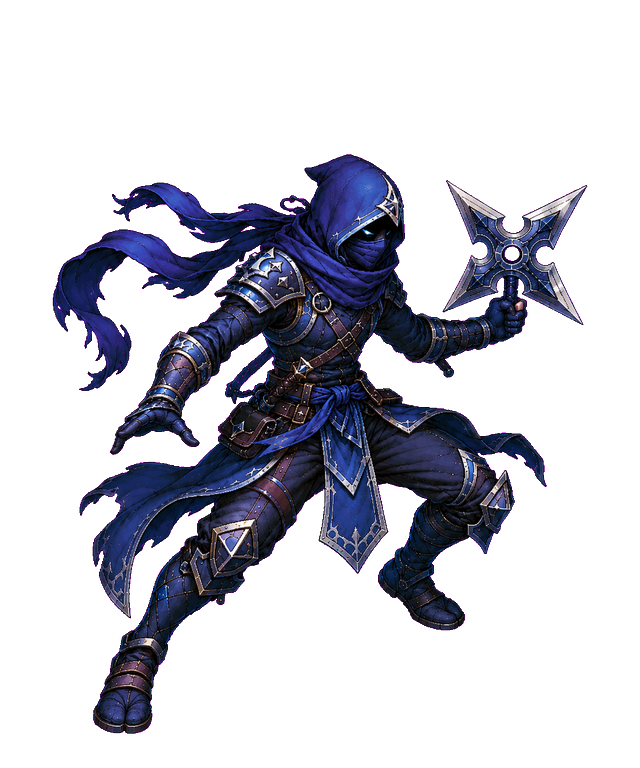
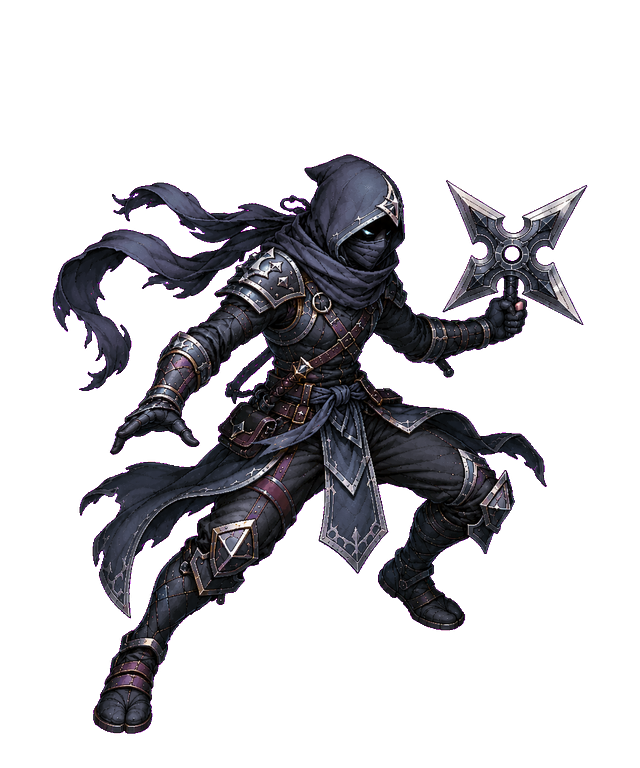
Turn Talon's blue into dark slate on his portrait and combat sheet by an exact palette pass that keeps his drawing, silver and leather, so he no longer reads like Kestrel's night blue, and record the new image hashes and palette (OD-2026-11-13-F, T1)
Agent: claude; Run: claude-bilan-presentation-20261113T1644Z

diff --git a/src/render/assetManifest.ts b/src/render/assetManifest.ts
@@ -209,7 +209,8 @@ export const assets = {
     morvan: { category: 'playable_hero', factionId: 'lion', rarity: 'unique', recruitTier: 'late', artStatus: 'approved', colorPalette: ['dark gold', 'black', 'wine'], silhouetteNotes: 'Dark knight wielding cursed blade.' },
     lyra: { category: 'playable_hero', factionId: 'lion', rarity: 'unique', recruitTier: 'late', artStatus: 'approved', colorPalette: ['crimson', 'silver', 'gold'], silhouetteNotes: 'Red mage hybrid casting both steel and spells.' },
     eldwin: { category: 'playable_hero', factionId: 'neutral', rarity: 'unique', recruitTier: 'late', artStatus: 'approved', colorPalette: ['teal', 'parchment', 'silver'], silhouetteNotes: 'Enchanter scholar with runes and seals.' },
-    talon: { category: 'playable_hero', factionId: 'neutral', rarity: 'unique', recruitTier: 'late', artStatus: 'approved', colorPalette: ['midnight', 'silver', 'violet'], silhouetteNotes: 'Ninja guardian with silent step and venom blade.' },
+    // OD-2026-11-13-F (T1): Talon's blue turned to dark slate on his portrait and combat sheet, apart from Kestrel's night blue.
+    talon: { category: 'playable_hero', factionId: 'neutral', rarity: 'unique', recruitTier: 'late', artStatus: 'approved', colorPalette: ['dark slate', 'silver', 'leather'], silhouetteNotes: 'Ninja guardian with silent step and venom blade.' },
     gunnar: { category: 'playable_hero', factionId: 'neutral', rarity: 'unique', recruitTier: 'late', artStatus: 'approved', colorPalette: ['steel', 'olive', 'copper'], silhouetteNotes: 'Artillerist with crossbow and explosive ordnance.' },
     // OD-2026-11-11-F (F1): the Bear plateau's final characters (tools/art/publish_final_images.py), accepted 2026-11-12.
     borin: { category: 'boss', factionId: 'bear', rarity: 'boss', artStatus: 'approved', colorPalette: ['stone grey', 'fur brown', 'antique gold'], silhouetteNotes: 'Ancien Ours Borin, elder chieftain under a bear-crowned closed helm and a heavy fur mantle, war hammer; 2x2 board presence.' },
